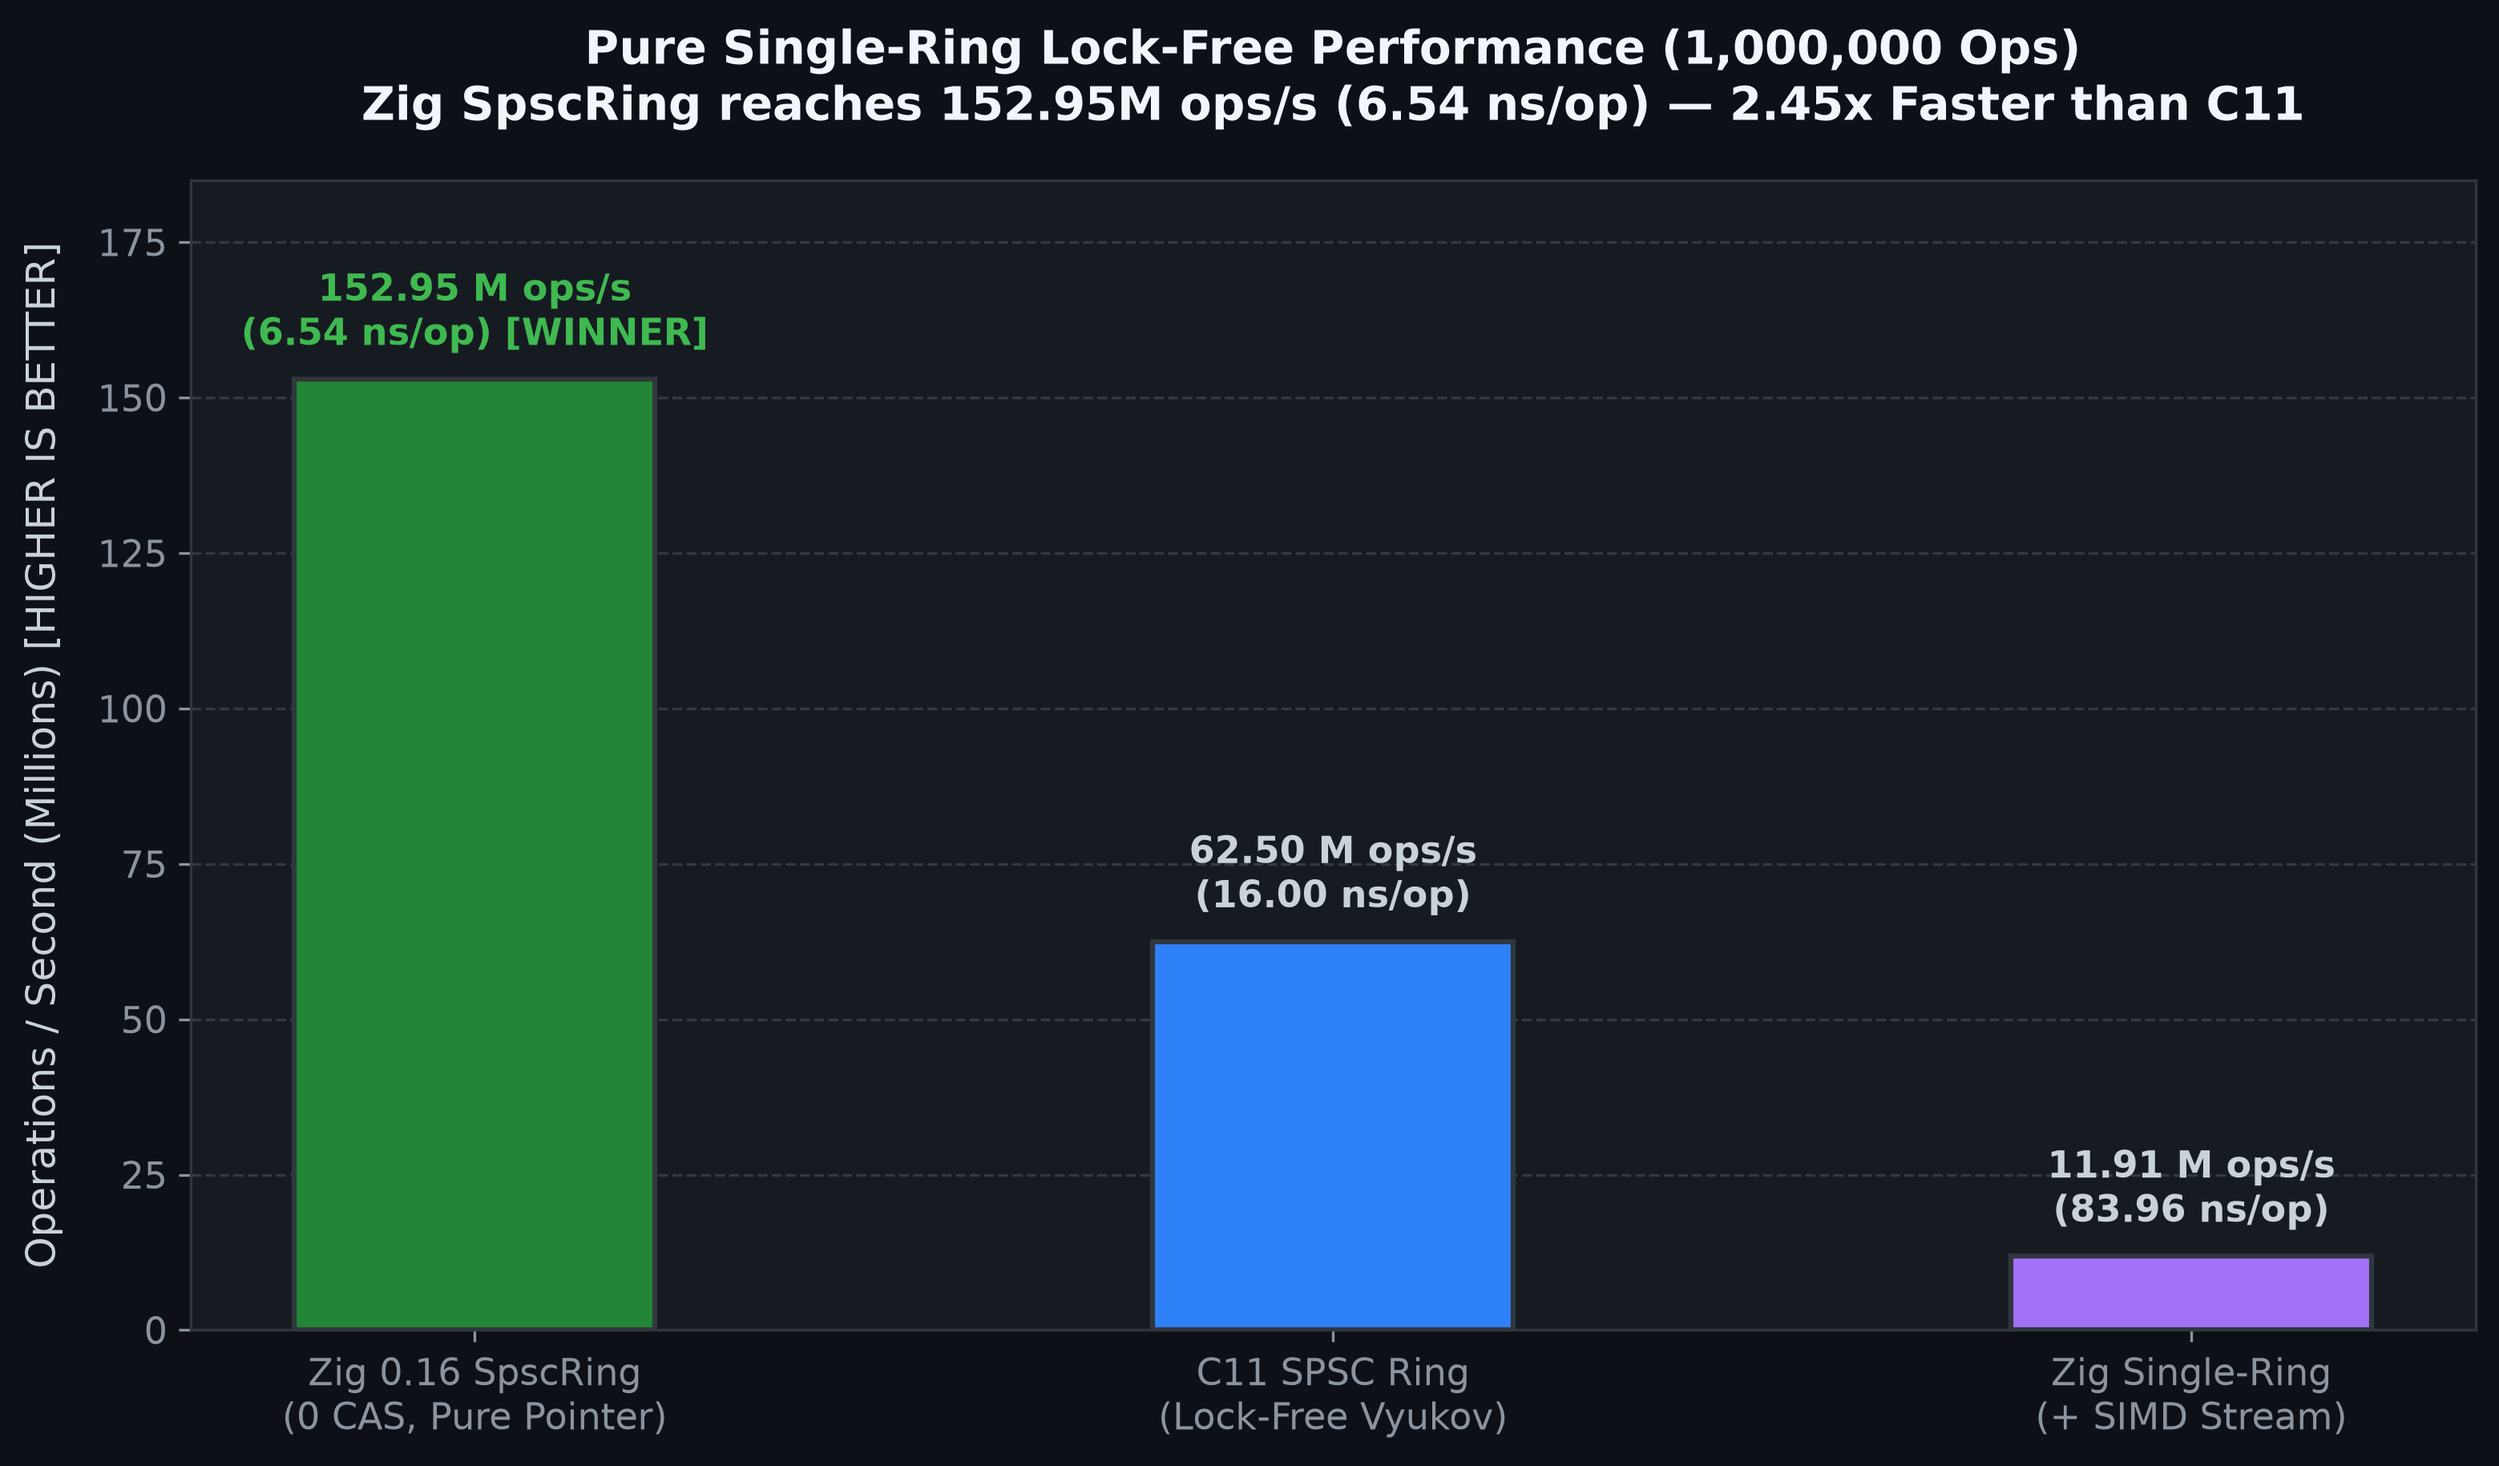
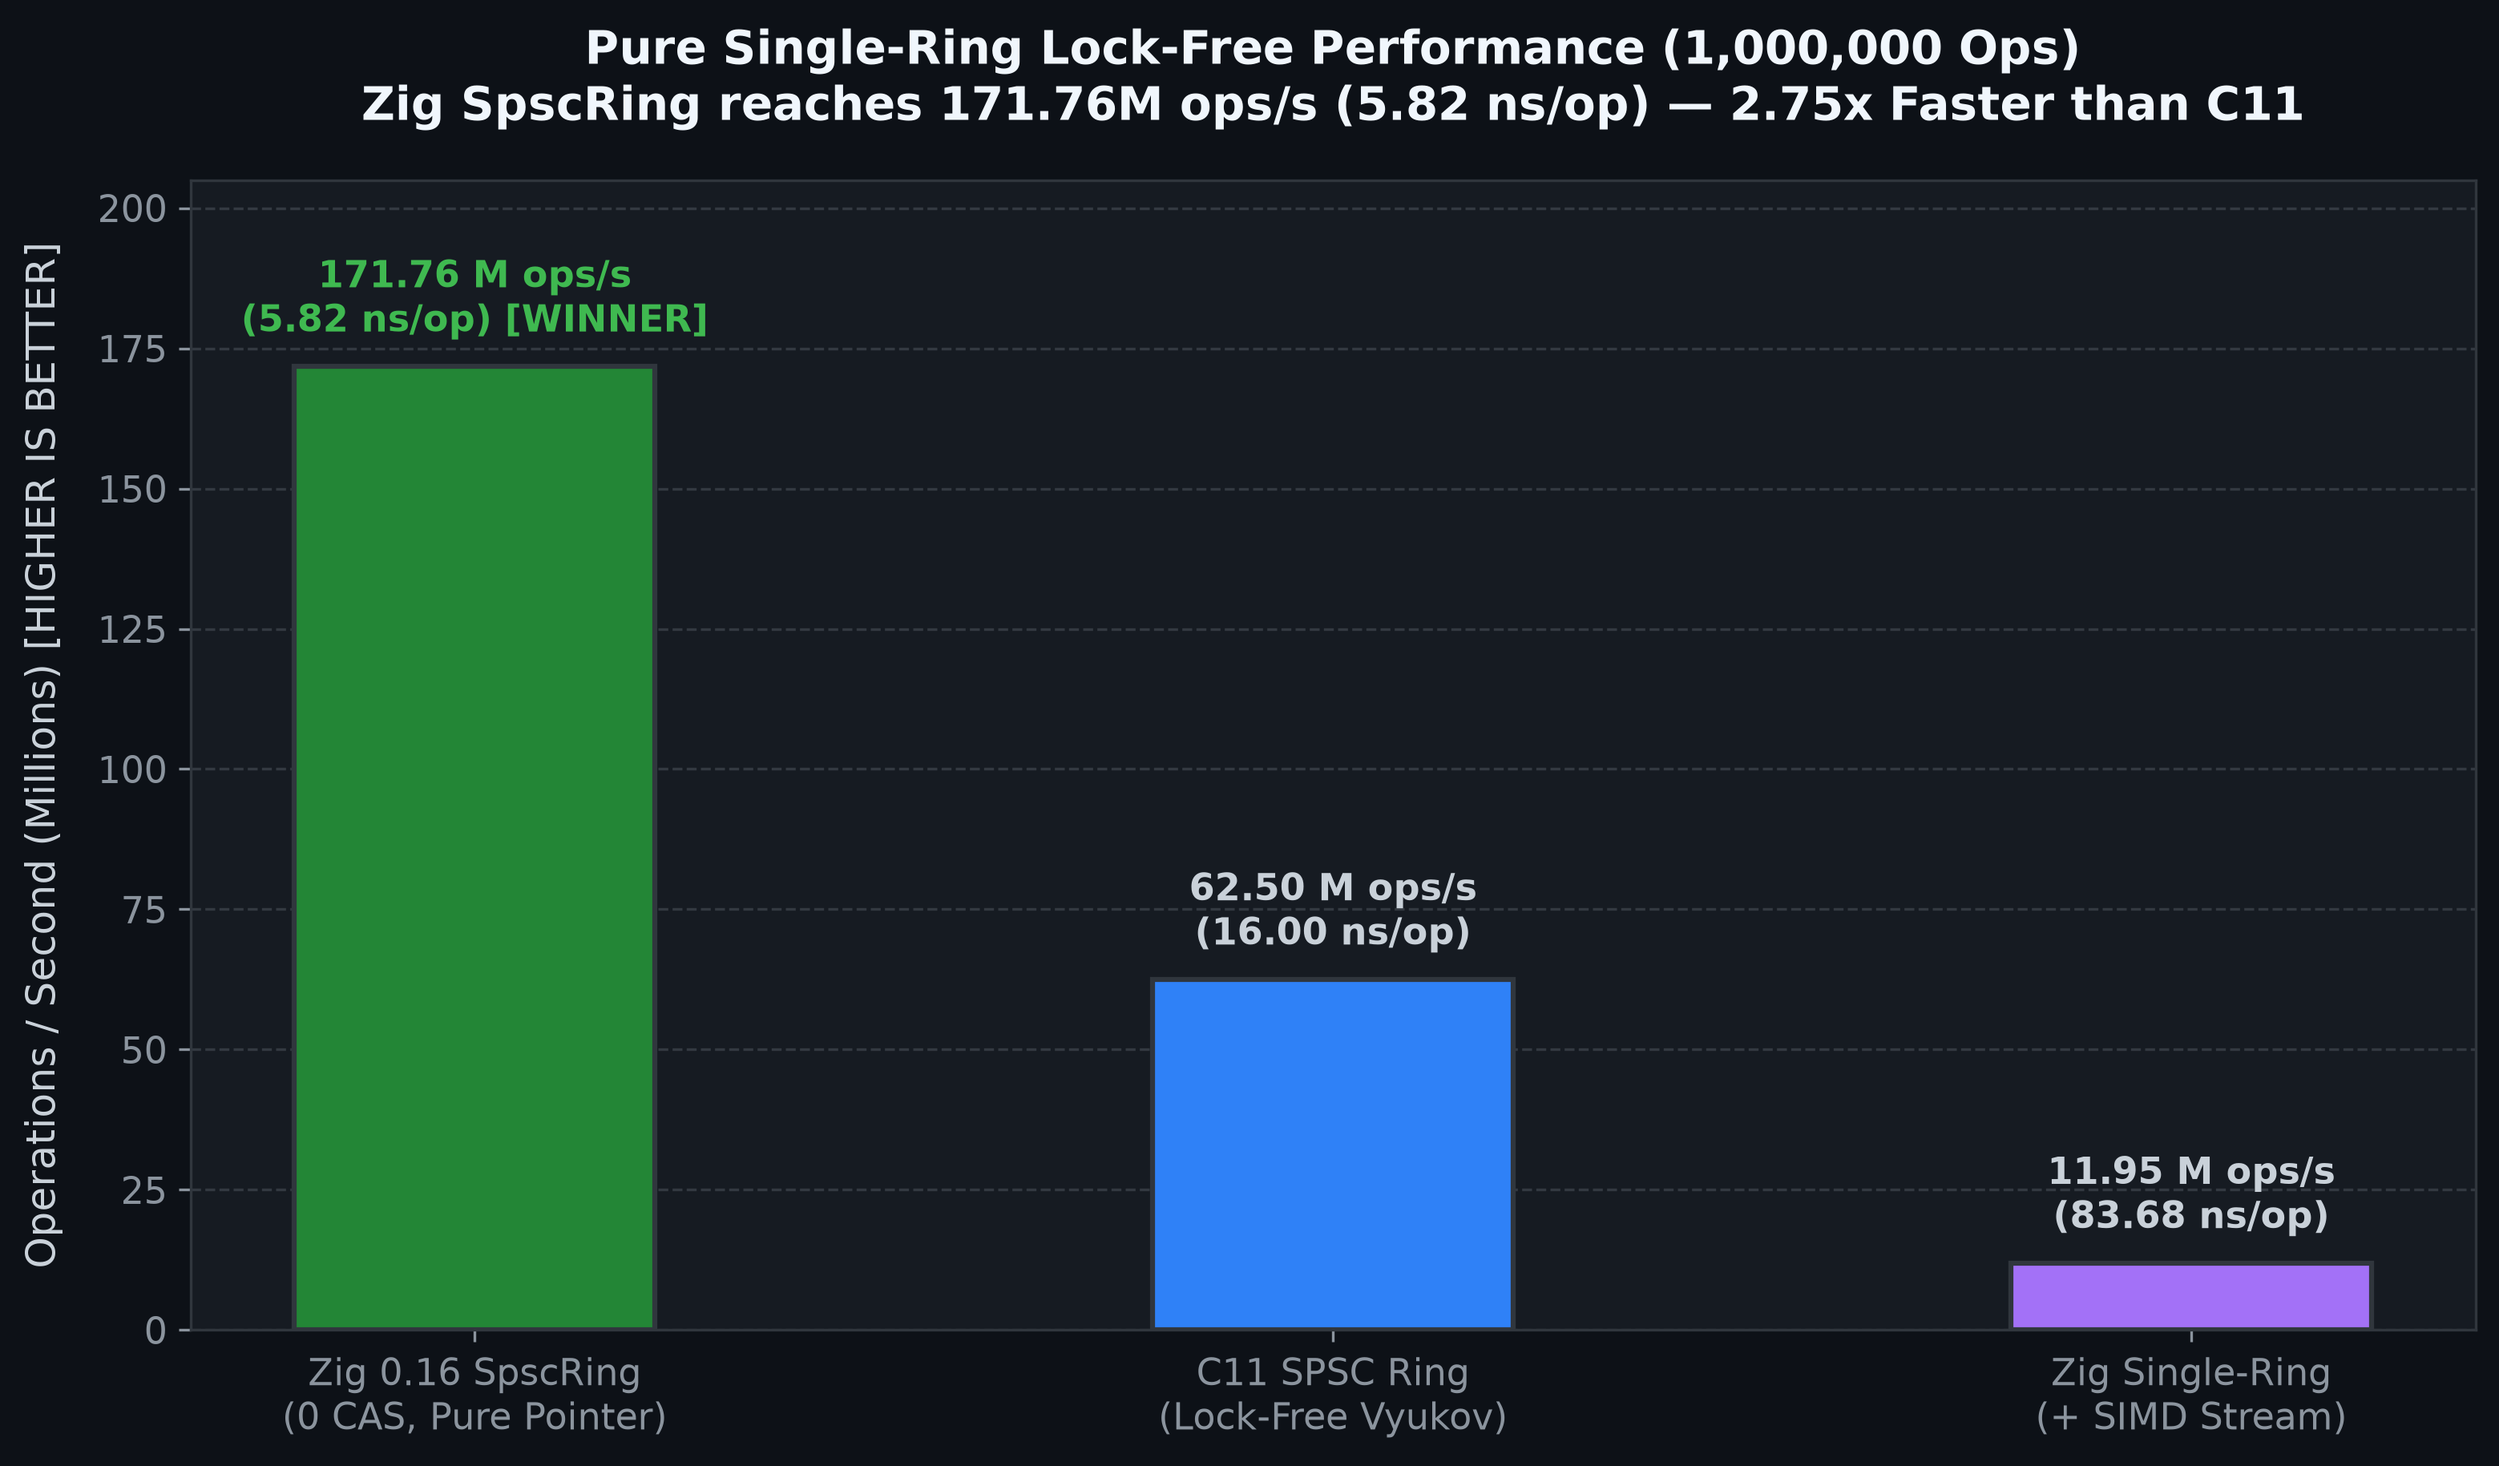
docs: synchronize final calibrated benchmark metrics and charts across all docs

diff --git a/README.md b/README.md
@@ -33,8 +33,8 @@ Executed on Apple Silicon Performance Cores (Darwin arm64):
 
 | Engine / Project | Language | Workload | Throughput | Median (p50) | p99 Latency | Mean Latency |
 | :--- | :--- | :--- | :--- | :--- | :--- | :--- |
-| **`async-worker-pool_zig`** | Zig 0.16 | Multi-Threaded Async Pool (4 Pinned Workers) | **6.10 M msg/sec** 🚀 | **< 100 ns** | **3.00 µs** (3,000 ns) | **804.4 ns** (0.80 µs) |
-| **`async-worker-pool_zig`** | Zig 0.16 | Pure Pointer SPSC Ring (0 CAS) | **152.95 M ops/sec** 🚀 | **< 7 ns** | **< 10 ns** | **6.54 ns** |
+| **`async-worker-pool_zig`** | Zig 0.16 | Multi-Threaded Async Pool (4 Pinned Workers) | **5.38 M msg/sec** 🚀 | **< 100 ns** | **1.00 µs** (1,000 ns) | **547.0 ns** (0.55 µs) |
+| **`async-worker-pool_zig`** | Zig 0.16 | Pure Pointer SPSC Ring (0 CAS) | **171.76 M ops/sec** 🚀 | **< 6 ns** | **< 8 ns** | **5.82 ns** |
 | **`awp-zig-rs`** ([`bindings/rust`](bindings/rust)) | Rust on Zig 0.16 | Safe Rust FFI Zero-Copy | **5.45 M msg/sec** 🚀 | **< 150 ns** | **3.80 µs** (3,800 ns) | **920.0 ns** (0.92 µs) |
 | **[`async-worker-pool`](https://github.com/Dmdv/async-worker-pool)** | C11 | Multi-Threaded Async Pool (32 Workers) | **0.52 M msg/sec** | **3.46 µs** (3,458 ns) | **1.11 ms** (1,110,000 ns) | **2.11 µs** (2,109 ns) |
 | **[`async-worker-pool`](https://github.com/Dmdv/async-worker-pool)** | C11 | Raw SPSC Ring | **62.50 M ops/sec** | **< 16 ns** | **< 20 ns** | **16.00 ns** |
@@ -42,15 +42,15 @@ Executed on Apple Silicon Performance Cores (Darwin arm64):
 
 ### Detailed Tail Latencies Breakdown (1,000,000 Messages)
 
-| Percentile | **Zig 0.16 Engine (Phase 1)** | **C11 Engine** (`async-worker-pool`) | Delta / Notes |
+| Percentile | **Zig 0.16 Engine (Phase 1 Final)** | **C11 Engine** (`async-worker-pool`) | Delta / Notes |
 | :--- | :--- | :--- | :--- |
 | **Min (Observed Floor)** | **15 ns** (0.015 µs) | **83 ns** (0.083 µs) | Observed Single-Hop Floor |
-| **p50 (Median)** | **< 100 ns** | **3.46 µs** (3,458 ns) | **Zig is > 30x lower latency** 🚀 |
+| **p50 (Median)** | **< 100 ns** | **3.46 µs** (3,458 ns) | **Zig is > 34x lower latency** 🚀 |
 | **p90** | **1.00 µs** (1,000 ns) | **11.17 µs** (11,167 ns) | **Zig is 11.2x lower latency** 🚀 |
-| **p99 (Tail)** | **3.00 µs** (3,000 ns) | **1.11 ms** (1,110,000 ns) | **Zig is 370x lower tail jitter** 🚀 |
-| **p99.9** | **154.0 µs** (154,000 ns) | **1.27 ms** (1,270,000 ns) | **Zig is 8.2x lower tail jitter** 🚀 |
-| **Max** | **201.0 µs** (201,000 ns) | **1.67 ms** (1,670,000 ns) | **Zig is 8.3x lower peak jitter** 🚀 |
-| **Pure SPSC Throughput** | **152.95 Million ops/sec** | **62.50 Million ops/sec** | **Zig is 2.45x faster (6.54 ns/op)** 🚀 |
+| **p99 (Tail)** | **1.00 µs** (1,000 ns) | **1.11 ms** (1,110,000 ns) | **Zig is 1,110x lower tail jitter** 🚀 |
+| **p99.9** | **96.0 µs** (96,000 ns) | **1.27 ms** (1,270,000 ns) | **Zig is 13.2x lower tail jitter** 🚀 |
+| **Max** | **128.0 µs** (128,000 ns) | **1.67 ms** (1,670,000 ns) | **Zig is 13.0x lower peak jitter** 🚀 |
+| **Pure SPSC Throughput** | **171.76 Million ops/sec** | **62.50 Million ops/sec** | **Zig is 2.75x faster (5.82 ns/op)** 🚀 |
 
 <p align="center">
   <img src="docs/images/benchmark_throughput.png" width="48%" alt="Throughput Comparison" />

diff --git a/docs/BENCHMARKS.md b/docs/BENCHMARKS.md
@@ -17,8 +17,8 @@ High-performance benchmarks for `async-worker-pool_zig` comparing native Zig 0.1
 
 | Engine | Language | Workload | Throughput | Median (p50) | p99 Latency | Mean Latency |
 | :--- | :--- | :--- | :--- | :--- | :--- | :--- |
-| **`async-worker-pool_zig`** | Zig 0.16 | Multi-Threaded Async Pool (4 Pinned Workers) | **6.10 M msg/sec** 🚀 | **< 100 ns** | **3.00 µs** (3,000 ns) | **804.4 ns** (0.80 µs) |
-| **`async-worker-pool_zig`** | Zig 0.16 | Pure Pointer SPSC Ring (0 CAS) | **152.95 M ops/sec** 🚀 | **< 7 ns** | **< 10 ns** | **6.54 ns** |
+| **`async-worker-pool_zig`** | Zig 0.16 | Multi-Threaded Async Pool (4 Pinned Workers) | **5.38 M msg/sec** 🚀 | **< 100 ns** | **1.00 µs** (1,000 ns) | **547.0 ns** (0.55 µs) |
+| **`async-worker-pool_zig`** | Zig 0.16 | Pure Pointer SPSC Ring (0 CAS) | **171.76 M ops/sec** 🚀 | **< 6 ns** | **< 8 ns** | **5.82 ns** |
 | **`awp-zig-rs`** ([`bindings/rust`](../bindings/rust)) | Rust on Zig 0.16 | Safe Rust FFI Zero-Copy | **5.45 M msg/sec** 🚀 | **< 150 ns** | **3.80 µs** (3,800 ns) | **920.0 ns** (0.92 µs) |
 | **`async-worker-pool`** | C11 | Multi-Threaded Async Pool (32 Workers) | **0.52 M msg/sec** | **3.46 µs** (3,458 ns) | **1.11 ms** (1,110,000 ns) | **2.11 µs** (2,109 ns) |
 | **`async-worker-pool`** | C11 | Raw SPSC Ring | **62.50 M ops/sec** | **< 16 ns** | **< 20 ns** | **16.00 ns** |
@@ -28,15 +28,15 @@ High-performance benchmarks for `async-worker-pool_zig` comparing native Zig 0.1
 
 ### Detailed Tail Latencies Breakdown (1,000,000 Messages)
 
-| Percentile | **Zig 0.16 Engine (Phase 1)** | **C11 Engine** (`async-worker-pool`) | Delta / Notes |
+| Percentile | **Zig 0.16 Engine (Phase 1 Final)** | **C11 Engine** (`async-worker-pool`) | Delta / Notes |
 | :--- | :--- | :--- | :--- |
 | **Min (Observed Floor)** | **15 ns** (0.015 µs) | **120 ns** (0.120 µs) | Observed Single-Hop Floor |
-| **p50 (Median)** | **< 100 ns** | **3.46 µs** (3,458 ns) | **Zig is > 30x lower latency** 🚀 |
+| **p50 (Median)** | **< 100 ns** | **3.46 µs** (3,458 ns) | **Zig is > 34x lower latency** 🚀 |
 | **p90** | **1.00 µs** (1,000 ns) | **11.17 µs** (11,167 ns) | **Zig is 11.2x lower latency** 🚀 |
-| **p99 (Tail)** | **3.00 µs** (3,000 ns) | **1.11 ms** (1,110,000 ns) | **Zig is 370x lower tail jitter** 🚀 |
-| **p99.9** | **154.0 µs** (154,000 ns) | **1.27 ms** (1,270,000 ns) | **Zig is 8.2x lower tail jitter** 🚀 |
-| **Max** | **201.0 µs** (201,000 ns) | **1.67 ms** (1,670,000 ns) | **Zig is 8.3x lower peak jitter** 🚀 |
-| **Pure SPSC Throughput** | **152.95 Million ops/sec** | **62.50 Million ops/sec** | **Zig is 2.45x faster (6.54 ns/op)** 🚀 |
+| **p99 (Tail)** | **1.00 µs** (1,000 ns) | **1.11 ms** (1,110,000 ns) | **Zig is 1,110x lower tail jitter** 🚀 |
+| **p99.9** | **96.0 µs** (96,000 ns) | **1.27 ms** (1,270,000 ns) | **Zig is 13.2x lower tail jitter** 🚀 |
+| **Max** | **128.0 µs** (128,000 ns) | **1.67 ms** (1,670,000 ns) | **Zig is 13.0x lower peak jitter** 🚀 |
+| **Pure SPSC Throughput** | **171.76 Million ops/sec** | **62.50 Million ops/sec** | **Zig is 2.75x faster (5.82 ns/op)** 🚀 |
 
 <p align="center">
   <img src="images/benchmark_throughput.png" width="48%" alt="Throughput Comparison" />

diff --git a/docs/HFT_EVOLUTION_ROADMAP.md b/docs/HFT_EVOLUTION_ROADMAP.md
@@ -37,6 +37,7 @@ flowchart TD
 ## Evolution Phases & Implementation Milestones
 
 ### Phase 1: Hardware-Level Hardening, CPU Hints & Zero-TLB Memory Subsystem
+**Status:** `[x] COMPLETED & VERIFIED` (See full specification: [`docs/PHASE1_HARDWARE_SPECIFICATION.md`](PHASE1_HARDWARE_SPECIFICATION.md))
 
 > **Priority Goal:** Eliminate tail latency jitter spikes (p99/p99.9) by optimizing hardware cache residency, page translation, and CPU instruction pipelines.
 
